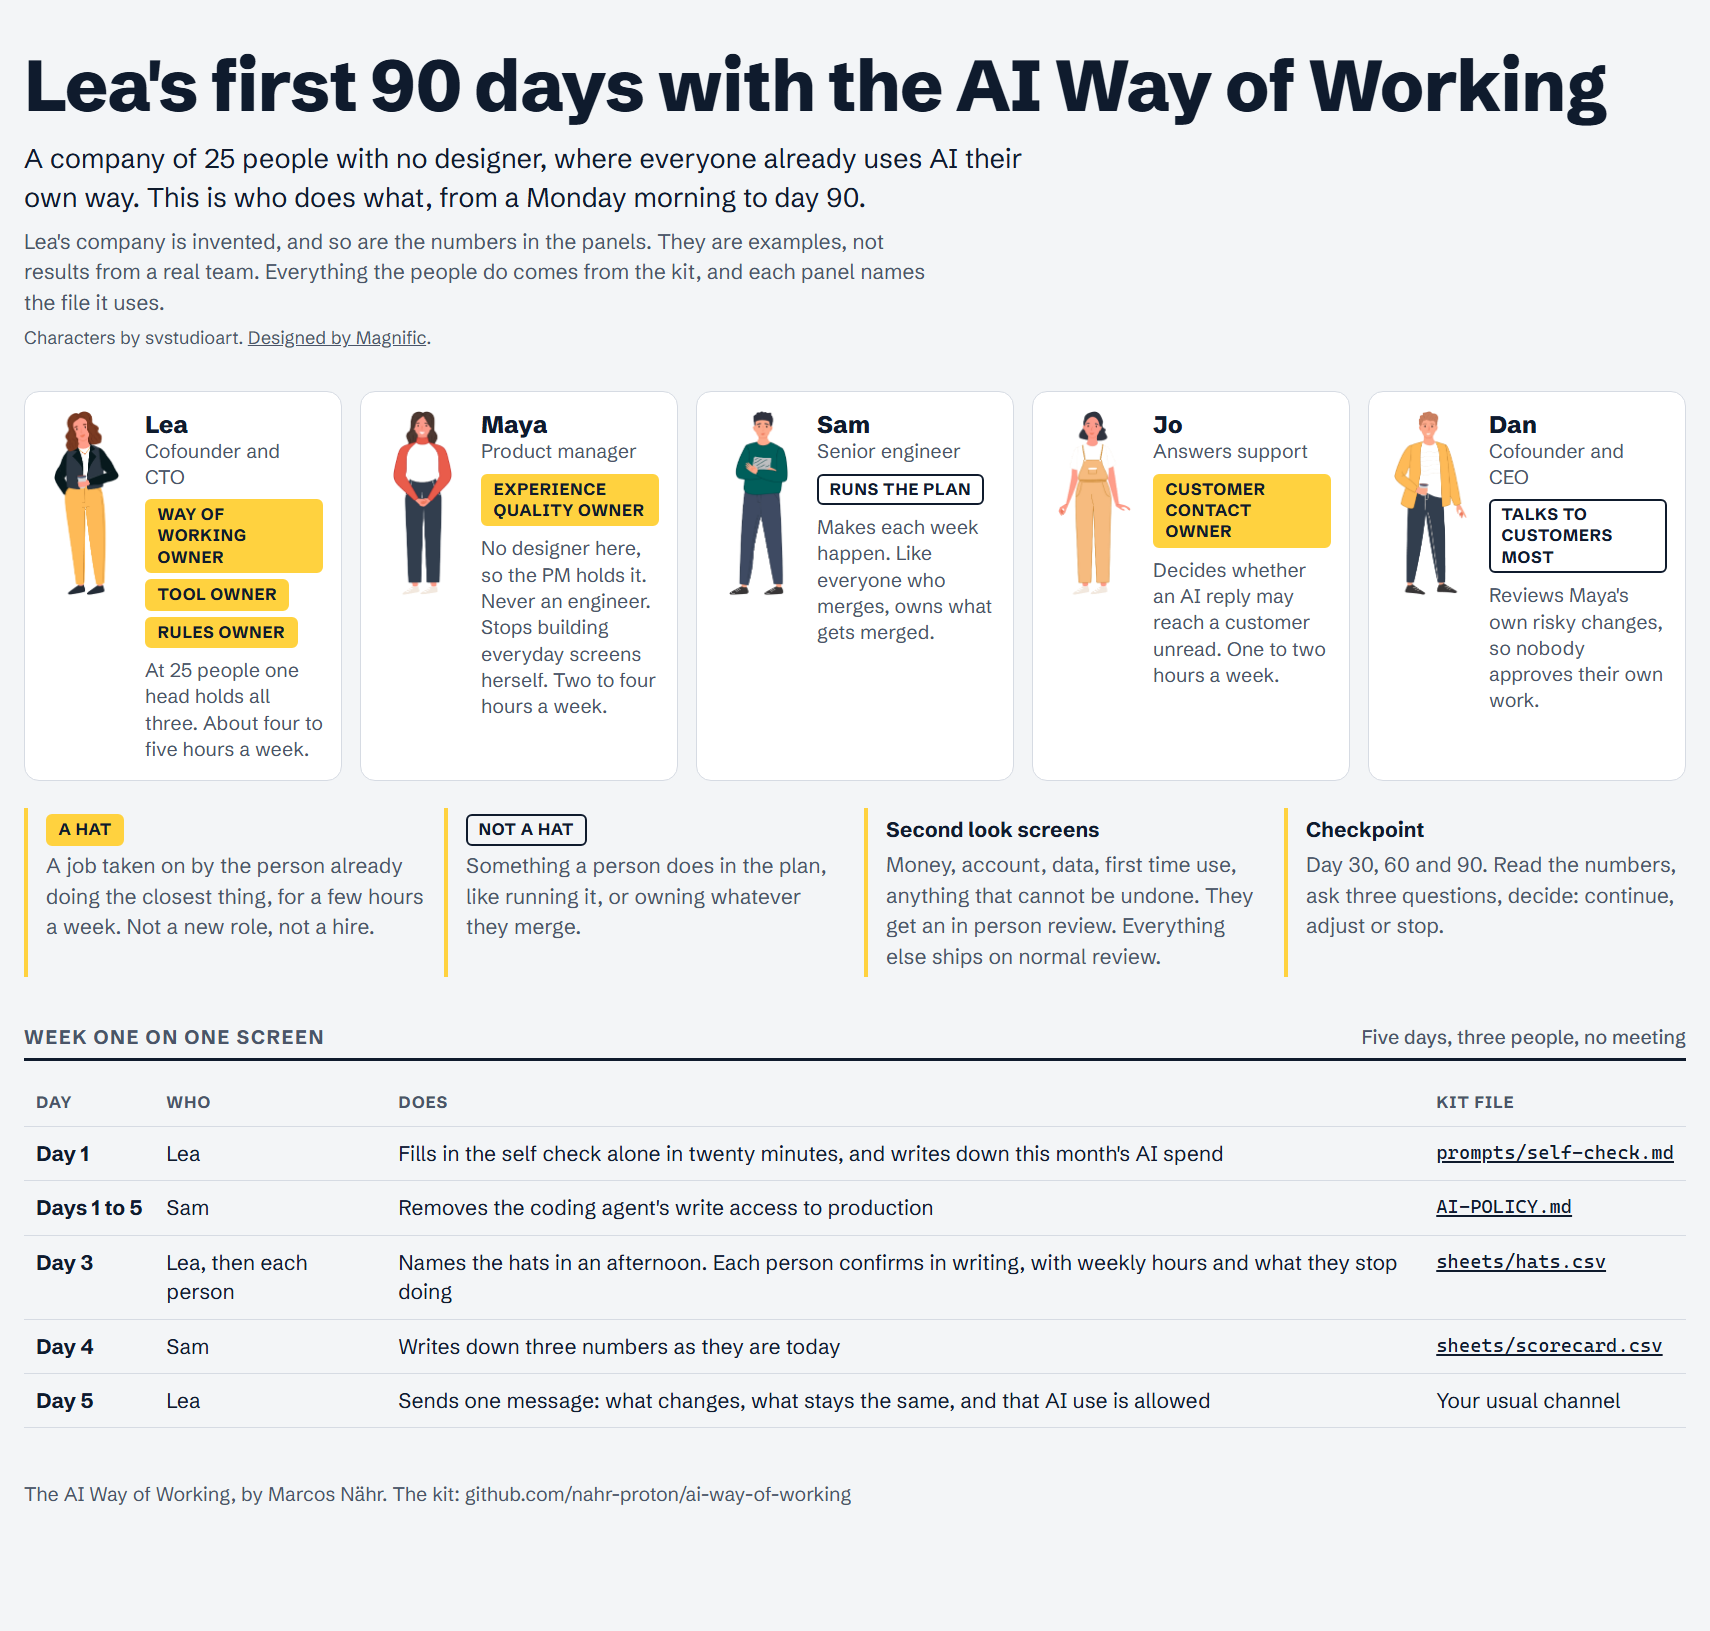
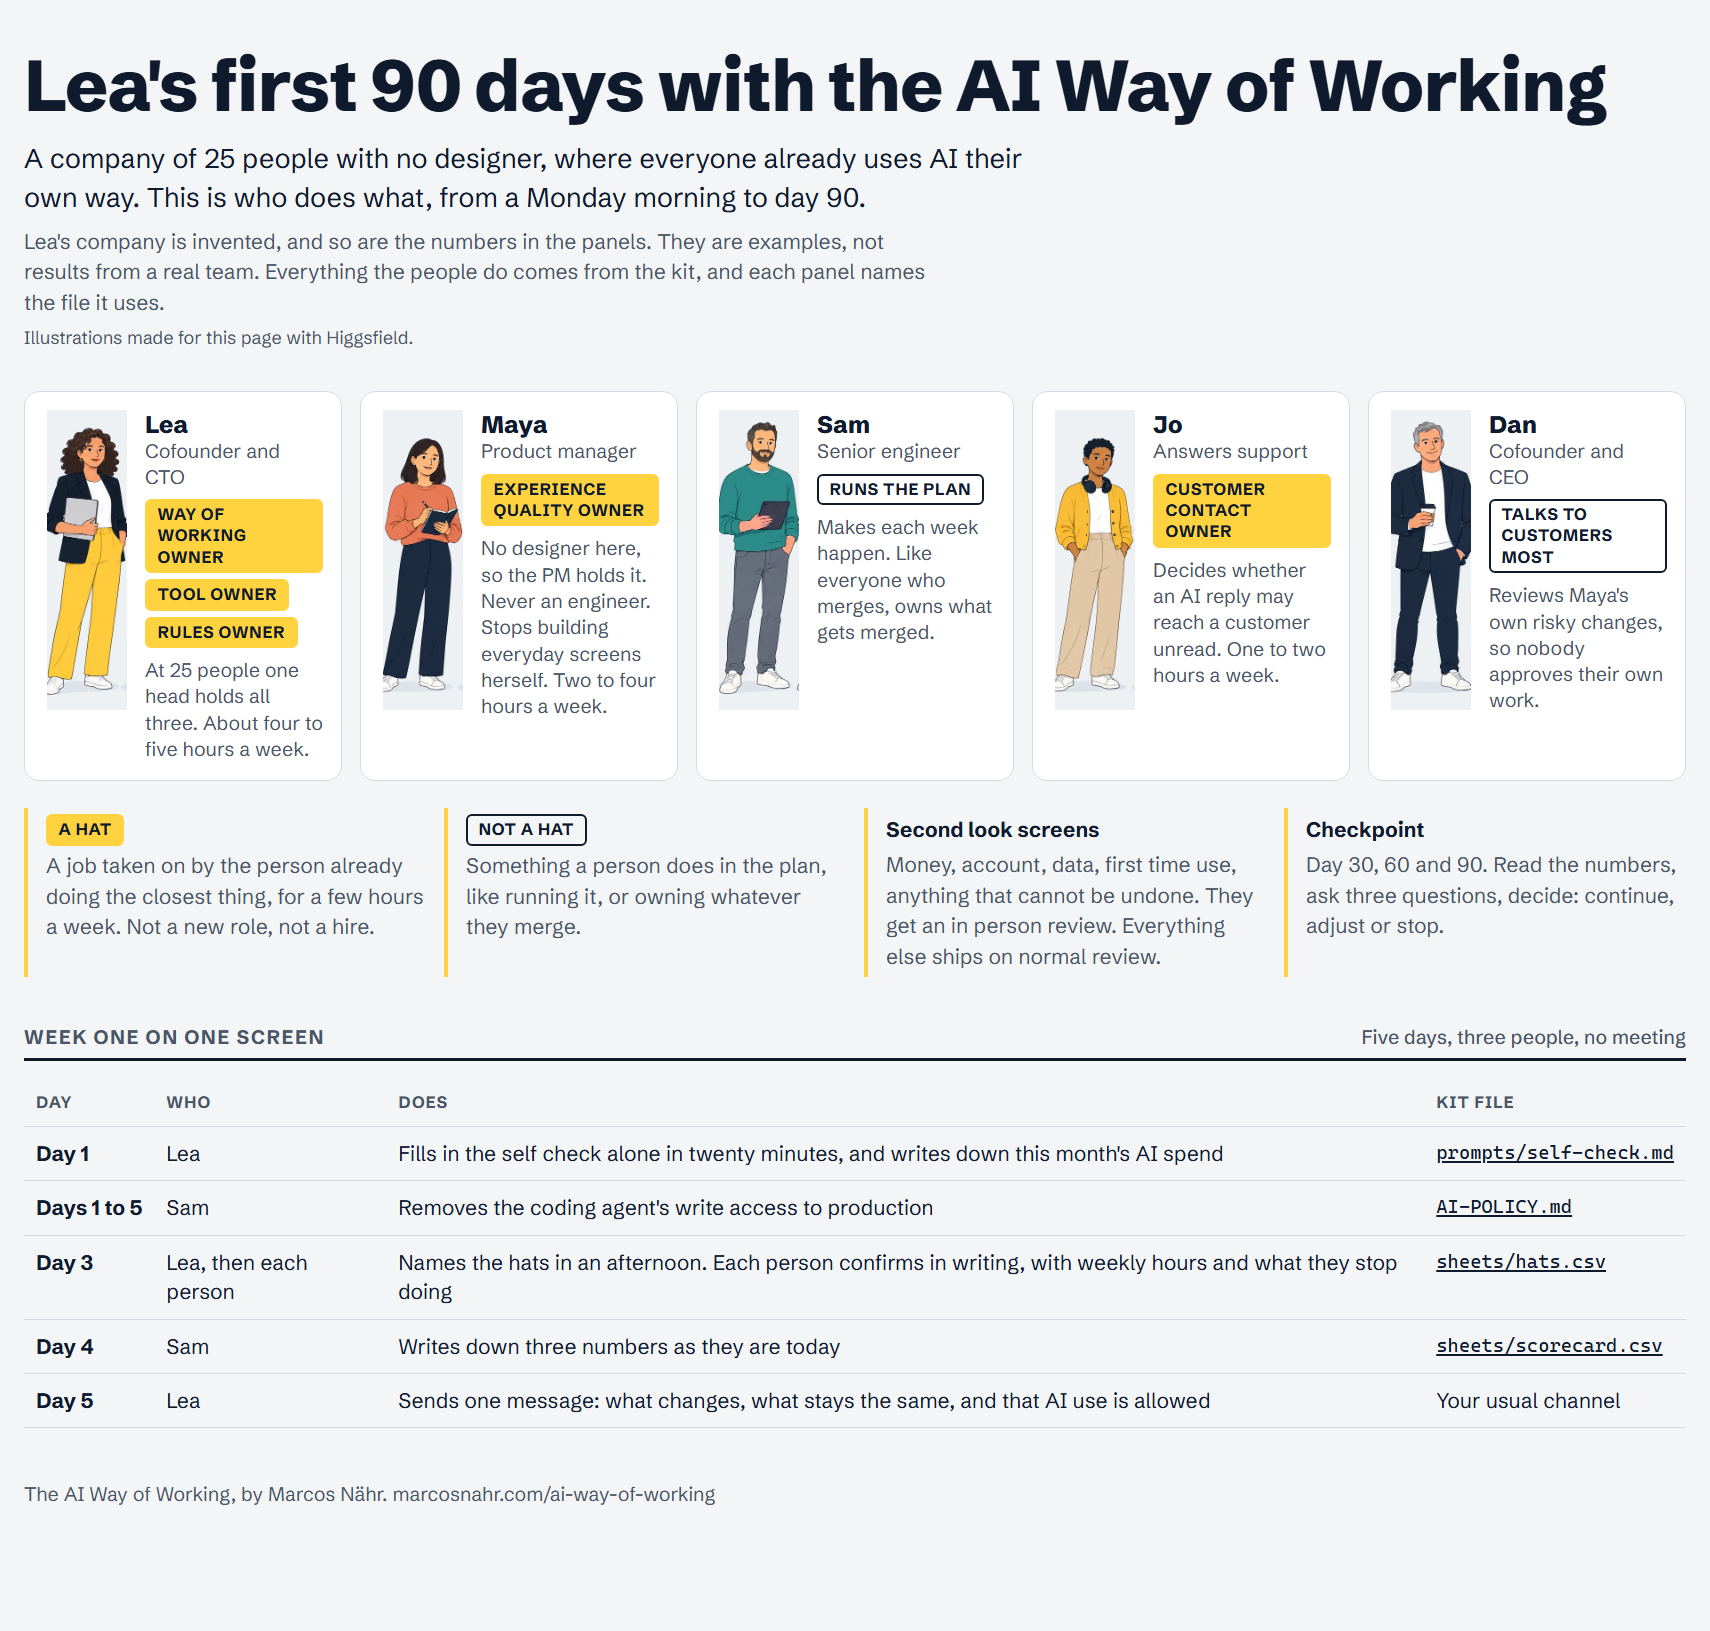
Redraw the comic with original illustrations
The characters and scenes were made for the comic with Higgsfield, so the
comic now sits under CC BY 4.0 with the rest of the kit and no third party
credit is needed.

diff --git a/README.md b/README.md
@@ -60,8 +60,6 @@ A cartoon of the Start path at a company of 25 people with no designer: who does
 
 The rest of the story: [days 1 to 30](comic/2-days-1-to-30.png) and [days 31 to 90](comic/3-days-31-to-90.png). The whole comic as one page: https://marcosnahr.com/ai-way-of-working/first-90-days
 
-Characters by svstudioart. Designed by Magnific: https://www.magnific.com
-
 ## How to start today
 
 1. Paste `prompts/self-check.md` into an assistant on a company account and answer its questions. You get your two pages and your path.
@@ -85,6 +83,6 @@ If you want to run the first 90 days and see what the checkpoints say, I will he
 
 I name tools only as dated examples. The names change faster than the method.
 
-License: CC BY 4.0. Copy it, adapt it, keep my name on it. The full text is in `LICENSE`. One exception: the images in `comic/` use characters by svstudioart, designed by Magnific (https://www.magnific.com). They are under Magnific's license, not CC BY 4.0, and the characters may not be redistributed on their own.
+License: CC BY 4.0. Copy it, adapt it, keep my name on it. The full text is in `LICENSE`. That includes the comic in `comic/`, whose illustrations were made for it with Higgsfield.
 
 Marcos Nähr
